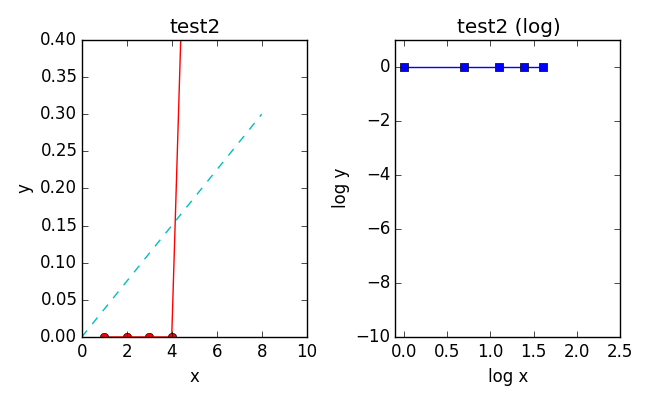
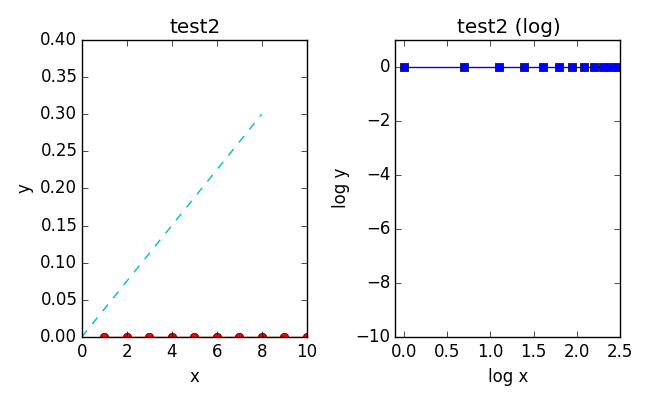
Fixed a design flaw that made find_largest_cc quadratic time instead of linear, which as it turned out caused the program to run for longer than 5 minutes.

diff --git a/hw2.py b/hw2.py
@@ -82,27 +82,50 @@ def visit(adj_ls, node):
 def devisit(adj_ls, node):
     adj_ls[node][1] = False
 
+def reset_visits(adj_ls):
+    for node in adj_ls:
+        devisit(adj_ls, node)
     
+class queue_b:
+    def __init__(self):
+        self.q = []
+
+    def enqueue(self, item):
+        self.q.append(item)
+
+    def dequeue(self):
+        if len(self.q) > 0:
+            return self.q.pop(0)
+        else:
+            return None
+
+    def is_empty(self):
+        if len(self.q) == 0:
+            return True
+        else:
+            return False
+
+    def get_length(self):
+        return len(self.q)
+
 
 def BFS(adj_ls, start_node):
     """
     Breadth First Search
     """
     found_nodes = []
-    Q = queue()
+    Q = queue_b()
     visit(adj_ls, start_node)
     found_nodes.append(start_node)
-    while Q.is_empty() == False:
+    Q.enqueue(start_node)
+    while Q.get_length() != 0:
         w = Q.dequeue()
         for n in get_neighbors(adj_ls, w):
             if get_visited(adj_ls, n) == False:
                 visit(adj_ls, n)
                 found_nodes.append(n)
                 Q.enqueue(n)
-
-    for node in adj_ls:         #resets all the visited statuses in the adj_ls to False after the search is done so that it doesn't interfere with the next BFS
-        devisit(adj_ls, node)
-    
+    #IN MEMORIAM: 2 hours of debugging time spent on this function even though there was no bug in this function RIP
     return found_nodes
 
 
@@ -113,55 +136,12 @@ def find_largest_cc(adj_ls):
     """
     max_cc = []
     for node in adj_ls:
-        current_cc = BFS(adj_ls, node)
-        if len(current_cc) > len(max_cc):
-            max_cc = current_cc
+        if get_visited(adj_ls, node) == False:
+            current_cc = BFS(adj_ls, node)
+            if len(current_cc) > len(max_cc):
+                max_cc = current_cc
+    reset_visits(adj_ls)
     return max_cc
-
-
-class queue():                  #queue only for the purpose of implementing BFS
-    def __init__(self):
-        self.head = None
-        self.tail = None
-    
-    def enqueue(self, item):
-        new_item = LL_node(item)
-        if self.head == None:
-            self.head = new_item
-            self.tail = new_item
-        else:
-            self.tail.attach(new_item)
-            self.tail = new_item
-    
-    def dequeue(self):
-        if self.head == None:
-            return None
-        else:
-            ret = self.head.val
-            new_head = self.head.give_next()
-            self.head.detach()
-            self.head = new_head
-            return ret
-    
-    def is_empty(self):
-        if self.head == None:
-            return True
-        else:
-            return False
-
-class LL_node():                 #node only for the purpose of implementing the queue class
-    def __init__(self, val):
-        self.val = val
-        self.next = None
-        
-    def detach(self):
-        self.next = None
-    
-    def give_next(self):
-        return self.next
-    
-    def attach(self, next_node):
-        self.next = next_node
 
 
 
@@ -244,8 +224,10 @@ def get_degrees(adj_ls, lcc):
     return a dictionary whose keys are nodes in the lcc and whose values are the degree of the given node
     """
     degree_dict = {}
+    print("length of lcc is:",len(lcc))
     for node in lcc:
         degree_dict[node] = len(get_neighbors(adj_ls,node))
+    print(degree_dict)
     return degree_dict
 
 def get_degree_hist_data(degree_dict):
@@ -258,6 +240,7 @@ def get_degree_hist_data(degree_dict):
         if current_degree > max_degree:
             max_degree = current_degree
 
+    print("Max degree is",max_degree)
     ls = []
     for n in range(max_degree+1):
         ls.append(0)
@@ -286,6 +269,8 @@ def deg_hist_ls(adj_lists, lcc_ls):
     while i < len(adj_lists):
         degree_dict = get_degrees(adj_lists[i],lcc_ls[i])
         output = get_degree_hist_data(degree_dict)
+        print(output)
+        print(type(output))
         data_ls.append(output)
         i += 1
     return data_ls
@@ -370,15 +355,23 @@ def main():
 
     collins_lcc = find_largest_cc(collins_adj)
     y2h_lcc = find_largest_cc(y2h_adj)
-    lc_lcc = find_largest_cc(y2h_adj)
+    lc_lcc = find_largest_cc(lc_adj)
     ER_lcc = find_largest_cc(ER_adj)
     BA_lcc = find_largest_cc(BA_adj)
+    print("length of collins",len(collins_lcc))
+    print("length of y2h",len(y2h_lcc))
+    print("length of lc",len(lc_lcc))
+    print("length of ER",len(ER_lcc))
+    print("length of BA lcc is",len(BA_lcc))
     
 
     adj_lists = [collins_adj, y2h_adj, lc_adj, ER_adj, BA_adj]
     lcc_ls = [collins_lcc, y2h_lcc, lc_lcc, ER_lcc, BA_lcc]
     
     d_hist_data = deg_hist_ls(adj_lists, lcc_ls)
+
+    print(d_hist_data[0])
+    
     plot_deg_hist('test2',d_hist_data[0])
     
     plot_deg_dist('test')
